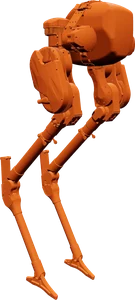
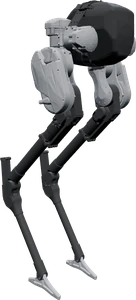
fix(Video): InEKF 换上 gallery 新的 Cassie 图，示意火柴人改成 Digit 下半身同款的 Cassie 鸟腿
- assets/img/robots/cassie.webp 换成 Robot_Description_Gallery 2026-10-09 的新渲染（UMich BipedLab 展示模型，灰色），
  按透明区域裁到机身、高 300 px；身高按新测量改为 1.2732 m。深灰机身在深色背景里发暗，图后垫一层浅灰光晕（同 LCP 第 10 幕）
- 第 2、3、4、6、10 幕的「方块 + 两段线」火柴人换成 cassieLegs()：骨盆块里仍画 IMU 坐标轴，腿照真实世界人形行走那篇
  digitFigure() 的下半身画（大腿 0.36、小腿 0.42、跗骨偏移 (−0.11, −0.2)、髋高 0.86，膝盖朝前），Digit 的腿就是 Cassie 的腿；
  第 4 幕整机当刚体转，跗骨和脚板跟着骨盆转；第 6 幕摆动脚抬高，不再压「估计的脚」标签；第 10 幕步长 120 → 84 px，后腿不再拉成弓步
- 动画说明改写示意范围与图片出处；新增 test_inekf_legs_are_drawn_like_the_digit_lower_body
- RELEASE_PLAN：019 记下这次改动，只出了第 1–4、6、10、12 幕的片段，全片待重渲与验收后发布

Claude-Session: https://claude.ai/code/session_01PLYEa36V2gsL86FEXwhLUW

diff --git a/assets/js/demos/inekf.js b/assets/js/demos/inekf.js
@@ -59,7 +59,7 @@
   /* 第 5–9 节与表 1 照抄；图 3、4、6、8、9 没有标数，读图的值单独标「读图」。官方 C++ 库（RossHartley/invariant-ekf）的数单独标出。
      十二幕动画、三个演示、配音旁白与笔记「🚶 具体实例」共用这一份。 */
   var G = 9.81; // 代码 InEKF.cpp：g_ = (0, 0, −9.81)
-  var CASSIE = { dof: 20, actuators: 10, springs: 4, encoders: 14, imuHz: 800, encHz: 2000, height: 1.2768 }; // 第 9 节；身高取自 Robot_Description_Gallery 的 URDF 测量
+  var CASSIE = { dof: 20, actuators: 10, springs: 4, encoders: 14, imuHz: 800, encHz: 2000, height: 1.2732 }; // 第 9 节；身高取自 Robot_Description_Gallery 的 URDF 测量（UMich BipedLab 展示模型）
   var TABLE1 = {
     // 表 1：离散噪声标准差与初始标准差（扩展版的零偏单位是 m/s³、rad/s²；会议版写成 m/s²、rad/s）
     noise: [['线加速度', '0.04 m/s²'], ['角速度', '0.002 rad/s'], ['加速度计零偏', '0.001 m/s³'], ['陀螺零偏', '0.001 rad/s²'], ['接触点线速度', '0.05 m/s'], ['关节编码器', '1.0°']],
@@ -769,44 +769,85 @@
     if (h >= 0) { node.setAttribute('y', (node.yBase - h).toFixed(1)); node.setAttribute('height', h.toFixed(1)); }
     else { node.setAttribute('y', node.yBase.toFixed(1)); node.setAttribute('height', (-h).toFixed(1)); }
   }
-  /* Cassie 的渲染图（Robot_Description_Gallery 按开源 URDF 渲染，透明底），高 h 时宽 0.45h；
+  /* Cassie 的渲染图（Robot_Description_Gallery 按 UMich BipedLab 的开源 URDF 渲染，透明底），高 h 时宽 0.45h；
+     机身是深灰，背后垫一层浅灰光晕（同 LCP 第 10 幕），深色主题下也看得清。
      mark(nx, ny) 把图上的归一化坐标换成画布坐标，用来标 IMU、弹簧、脚 */
-  var CASSIE_IMG = { file: 'cassie.webp', aspect: 135 / 300, imu: [0.75, 0.11], hip: [0.38, 0.25], spring: [0.11, 0.63], footA: [0.31, 0.97], footB: [0.6, 0.9] };
+  var CASSIE_IMG = { file: 'cassie.webp', aspect: 136 / 300, imu: [0.75, 0.11], hip: [0.38, 0.25], spring: [0.11, 0.63], footA: [0.31, 0.97], footB: [0.6, 0.9] };
+  var haloSeq = 0;
   function cassie(parent, x, yBottom, h) {
     var w = h * CASSIE_IMG.aspect, g = group(parent);
+    var root = parent.ownerSVGElement || parent, defs = root.querySelector('defs');
+    if (!defs) { defs = svgEl('defs', {}); root.insertBefore(defs, root.firstChild); }
+    var id = 'inekf-x-halo-' + (++haloSeq), halo = svgEl('radialGradient', { id: id });
+    halo.appendChild(svgEl('stop', { offset: '0', 'stop-color': '#a3acb9', 'stop-opacity': '0.5' }));
+    halo.appendChild(svgEl('stop', { offset: '1', 'stop-color': '#a3acb9', 'stop-opacity': '0' }));
+    defs.appendChild(halo);
+    g.appendChild(svgEl('ellipse', { cx: (x + w / 2).toFixed(1), cy: (yBottom - h * 0.5).toFixed(1), rx: (w * 0.72).toFixed(1), ry: (h * 0.58).toFixed(1), fill: 'url(#' + id + ')' }));
     var img = svgEl('image', { href: ROBOT_IMG_BASE + CASSIE_IMG.file, x: x.toFixed(1), y: (yBottom - h).toFixed(1), width: w.toFixed(1), height: h.toFixed(1), preserveAspectRatio: 'xMidYMax meet' });
     g.appendChild(img);
     return { g: g, w: w, h: h, mark: function (nn) { return [x + nn[0] * w, yBottom - h + nn[1] * h]; } };
   }
-  /* 示意用的「身体 + 两条腿」：身体是一个带坐标轴的方块（IMU 在里面），腿是两段线，脚是圆点。
-     put(x, y, ang, feet)：身体中心 (x, y)、俯仰 ang（rad，图上逆时针为正）、feet = [[x, y, 着地?], …] */
-  function bodyLegs(parent, color, dashed) {
+  /* 侧视的 Cassie 示意（面朝 +x）：骨盆是一个带坐标轴的圆角块（IMU 在里面），腿照真实世界人形行走那篇的
+     Digit 下半身画 —— Digit 的腿就是 Cassie 的腿：大腿往前、小腿往后、跗骨再往前落到脚板上，髋上一个电机盘。
+     远侧那条腿淡一些。o.legH 是站直时髋到地面的像素数（连杆长度按它定，取 Digit 的比例），o.bodySc 缩放骨盆。
+     put(x, y, ang, feet, rigid)：骨盆中心 (x, y)、俯仰 ang（rad，图上逆时针为正）、feet = [[x, y, 着地?], …]（先近侧后远侧）；
+     rigid 为真时跗骨和脚板也跟着骨盆转（第 4 幕把整个机器人当刚体转一下） */
+  function cassieLegs(parent, color, dashed, opts) {
+    var o = opts || {}, H = o.legH || 62, bs = o.bodySc || 1;
+    var M = H / 0.86, L1 = 0.36 * M, L2 = 0.42 * M, TAR = [-0.11 * M, -0.2 * M], ws = Math.min(M / 100, 1.1);
     var g = group(parent);
-    var legs = [0, 1].map(function () {
-      var l1 = hline(g, 0, 0, 0, 0, color, 2.4), l2 = hline(g, 0, 0, 0, 0, color, 2.4), foot = dotAt(g, 0, 0, 4.2, color);
-      if (dashed) { l1.setAttribute('stroke-dasharray', '4 3'); l2.setAttribute('stroke-dasharray', '4 3'); }
-      return { l1: l1, l2: l2, foot: foot };
-    });
+    function bone(parentG, w) {
+      var ln = paint(svgEl('line', { 'stroke-width': (dashed ? Math.max(1.6, w * ws * 0.55) : w * ws).toFixed(2), 'stroke-linecap': 'round' }), null, color);
+      if (dashed) ln.setAttribute('stroke-dasharray', '4 3');
+      parentG.appendChild(ln);
+      return ln;
+    }
+    function leg(far) {
+      var lg = group(g);
+      if (far) lg.style.opacity = 0.45;
+      var L = { thigh: bone(lg, 6.5), shin: bone(lg, 5.5), tar: bone(lg, 4), foot: bone(lg, 3.6) };
+      L.motor = paint(svgEl('circle', { r: Math.min(0.075 * M, 9).toFixed(1), 'stroke-width': 1.4 }), C_SURFACE, color);
+      if (dashed) L.motor.setAttribute('stroke-dasharray', '3 2');
+      lg.appendChild(L.motor);
+      L.dot = dotAt(lg, 0, 0, clamp(0.045 * M, 2.4, 4), color);
+      return L;
+    }
+    var farLeg = leg(true);
     var body = svgEl('g', {});
     g.appendChild(body);
-    var box = paint(svgEl('rect', { x: -22, y: -13, width: 44, height: 26, rx: 5, 'stroke-width': 2 }), C_SURFACE, color);
+    var box = paint(svgEl('rect', { x: -22 * bs, y: -13 * bs, width: 44 * bs, height: 26 * bs, rx: 9 * bs, 'stroke-width': 2 }), C_SURFACE, color);
     if (dashed) box.setAttribute('stroke-dasharray', '4 3');
     body.appendChild(box);
-    var ax = hline(body, 0, 0, 16, 0, color, 1.6), ay = hline(body, 0, 0, 0, -16, color, 1.6);
+    hline(body, 0, 0, 16 * bs, 0, color, 1.6);
+    hline(body, 0, 0, 0, -16 * bs, color, 1.6);
     dotAt(body, 0, 0, 2.6, color);
+    var nearLeg = leg(false);
+    function rot(v, th) { return [v[0] * Math.cos(th) - v[1] * Math.sin(th), v[0] * Math.sin(th) + v[1] * Math.cos(th)]; }
+    function pose(L, hip, f, th) {
+      var tar = rot(TAR, th), ankle = [f[0] + tar[0], f[1] + tar[1]];
+      var dx = ankle[0] - hip[0], dy = ankle[1] - hip[1];
+      var d = clamp(Math.hypot(dx, dy), 0.2 * M, L1 + L2 - 0.01);
+      var base = Math.atan2(dy, dx), bend = Math.acos(clamp((L1 * L1 + d * d - L2 * L2) / (2 * L1 * d), -1, 1));
+      var a = base - bend; // 膝盖朝前
+      var knee = [hip[0] + L1 * Math.cos(a), hip[1] + L1 * Math.sin(a)];
+      var ank = [hip[0] + d * Math.cos(base), hip[1] + d * Math.sin(base)];
+      setLine(L.thigh, hip[0], hip[1], knee[0], knee[1]);
+      setLine(L.shin, knee[0], knee[1], ank[0], ank[1]);
+      setLine(L.tar, ank[0], ank[1], f[0], f[1]);
+      var heel = rot([-0.05 * M, 0], th), toe = rot([0.09 * M, 0], th);
+      setLine(L.foot, f[0] + heel[0], f[1] + heel[1], f[0] + toe[0], f[1] + toe[1]);
+      L.motor.setAttribute('cx', hip[0].toFixed(1)); L.motor.setAttribute('cy', hip[1].toFixed(1));
+      moveDot(L.dot, f);
+      L.dot.style.opacity = f[2] ? 1 : 0.35;
+    }
     return {
       g: g, box: box,
-      put: function (x, y, ang, feet) {
+      put: function (x, y, ang, feet, rigid) {
         body.setAttribute('transform', 'translate(' + x.toFixed(1) + ' ' + y.toFixed(1) + ') rotate(' + ((-ang * 180) / Math.PI).toFixed(2) + ')');
-        feet.forEach(function (f, k) {
-          var L = legs[k], hip = [x + (k ? 6 : -6), y + 12];
-          var mid = [(hip[0] + f[0]) / 2 + 9, (hip[1] + f[1]) / 2];
-          setLine(L.l1, hip[0], hip[1], mid[0], mid[1]);
-          setLine(L.l2, mid[0], mid[1], f[0], f[1]);
-          moveDot(L.foot, f);
-          L.foot.style.opacity = f[2] ? 1 : 0.35;
+        [nearLeg, farLeg].forEach(function (L, k) {
+          var off = rot([k ? -2 * bs : 2 * bs, 12 * bs], -ang), f = feet[k];
+          pose(L, [x + off[0], y + off[1]], f, rigid ? -ang : 0);
         });
-        ax.style.opacity = 1; ay.style.opacity = 1;
       }
     };
   }
@@ -969,8 +1010,8 @@
     right.appendChild(svgText(290, 62, '世界坐标（示意）', 'demo-x-mut', 10.5));
     var GY = 250;
     hline(right, 290, GY, 756, GY, C_BORDER, 1.4);
-    var trueBody = bodyLegs(right, C_TRUE, true);
-    var estBody = bodyLegs(right, C_EST, false);
+    var trueBody = cassieLegs(right, C_TRUE, true);
+    var estBody = cassieLegs(right, C_EST, false);
     var ell = paint(svgEl('ellipse', { cx: 0, cy: 0, rx: 10, ry: 6, fill: 'none', 'stroke-width': 1.4, 'stroke-dasharray': '3 3' }), null, C_EST);
     right.appendChild(ell);
     var pin = group(right);
@@ -1044,7 +1085,7 @@
     rectBox(left, 30, 44, 300, 290, C_BORDER, C_SURFACE2);
     var GY = 250, CX = 150;
     hline(left, 44, GY, 316, GY, C_BORDER, 1.4);
-    var trueB = bodyLegs(left, C_TRUE, true), estB = bodyLegs(left, C_Q, false);
+    var trueB = cassieLegs(left, C_TRUE, true), estB = cassieLegs(left, C_Q, false);
     var mkG = K.arrowMarker(s, 'inekf-x-arrow-g', C_WARN), mkR = K.arrowMarker(s, 'inekf-x-arrow-res', C_Q);
     var aBody = arrowPath(left, [[0, 0], [1, 1]], C_WARN, mkG, null, 2.2);
     var aG = arrowPath(left, [[0, 0], [1, 1]], C_MUTED, K.arrowMarker(s, 'inekf-x-arrow-gw', C_MUTED), '4 3', 2);
@@ -1092,9 +1133,9 @@
       setOpacity(left, seg(t, 0.2, 0.8));
       var th = t < 10.4 ? 0.1 : 0.1 + 0.4 * ease(seg(t, 10.4, 11.4));
       var by = GY - 74;
-      trueB.put(CX, by, 0, [[CX - 12, GY, true], [CX + 12, GY, true]]);
+      trueB.put(CX, by, 0, [[CX + 2, GY, true], [CX + 12, GY, true]]);
       var tilt = t < 0.8 ? 0 : th * ease(seg(t, 0.8, 1.6));
-      estB.put(CX, by, -tilt, [[CX - 12, GY, true], [CX + 12, GY, true]]);
+      estB.put(CX, by, -tilt, [[CX + 2, GY, true], [CX + 12, GY, true]]);
       angLab.setText('滤波器以为前倾了 **' + fmt(th, 1) + ' rad**（约 ' + fmt((th * 180) / Math.PI, 0) + '°）');
       /* 读数 ã 沿机身的「上」：在估计的朝向下画出来，再加上 g（向下），剩下水平的假加速度 */
       var L = 112, up = [Math.sin(tilt), -Math.cos(tilt)];
@@ -1180,7 +1221,8 @@
     var ORIG = [420, 236];
     dotAt(err, ORIG[0], ORIG[1], 3, C_MUTED);
     err.appendChild(svgText(ORIG[0], ORIG[1] + 18, '世界原点', 'demo-x-mut', 9.5, 'middle'));
-    var tB = bodyLegs(err, C_TRUE, true), eB = bodyLegs(err, C_EST, false);
+    var FIG4 = { legH: 31, bodySc: 0.75 };
+    var tB = cassieLegs(err, C_TRUE, true, FIG4), eB = cassieLegs(err, C_EST, false, FIG4);
     var swing = paint(svgEl('path', { fill: 'none', 'stroke-width': 1.4, 'stroke-dasharray': '3 3' }), null, C_EST);
     err.appendChild(swing);
     err.appendChild(paint(svgText(756, 256, '整体转 + 挪一下', null, 10, 'end'), C_EST));
@@ -1216,14 +1258,14 @@
       setOpacity(err, seg(t, 7.0, 7.6));
       /* 真值不动；估计值 = 真值绕世界原点转 ψ 再平移一点（ψ 来回摆） */
       var psi = 0.28 + 0.08 * Math.sin(now * 1.2);
-      var P0 = [520, 220];
-      tB.put(P0[0], P0[1], 0, [[P0[0] - 10, P0[1] + 32, true], [P0[0] + 14, P0[1] + 32, true]]);
+      var P0 = [520, 212], F1 = [P0[0] + 3, P0[1] + 40], F2 = [P0[0] + 11, P0[1] + 40];
+      tB.put(P0[0], P0[1], 0, [[F1[0], F1[1], true], [F2[0], F2[1], true]]);
       function rotAbout(q) {
         var dx = q[0] - ORIG[0], dy = q[1] - ORIG[1], c = Math.cos(-psi), sn = Math.sin(-psi);
         return [ORIG[0] + c * dx - sn * dy + 40, ORIG[1] + sn * dx + c * dy - 6];
       }
-      var b2 = rotAbout(P0), f1 = rotAbout([P0[0] - 10, P0[1] + 32]), f2 = rotAbout([P0[0] + 14, P0[1] + 32]);
-      eB.put(b2[0], b2[1], psi, [[f1[0], f1[1], true], [f2[0], f2[1], true]]);
+      var b2 = rotAbout(P0), f1 = rotAbout(F1), f2 = rotAbout(F2);
+      eB.put(b2[0], b2[1], psi, [[f1[0], f1[1], true], [f2[0], f2[1], true]], true);
       swing.setAttribute('d', 'M ' + P0[0] + ' ' + P0[1] + ' Q ' + ((P0[0] + b2[0]) / 2 + 10).toFixed(1) + ' ' + ((P0[1] + b2[1]) / 2 + 20).toFixed(1) + ' ' + b2[0].toFixed(1) + ' ' + b2[1].toFixed(1));
       setOpacity(dims, seg(t, 10.4, 11.0));
       segNodes.forEach(function (g, k) { setOpacity(g, seg(t, 10.6 + k * 0.4, 11.0 + k * 0.4)); });
@@ -1350,7 +1392,7 @@
     var O = [96, GY];
     hline(left, 44, GY, 376, GY, C_BORDER, 1.4);
     function W(p3, mag) { return [O[0] + p3[0] * SCL * (mag || 1), O[1] - p3[2] * SCL * (mag || 1)]; }
-    var bodyB = bodyLegs(left, C_EST, false);
+    var bodyB = cassieLegs(left, C_EST, false, { legH: UPD.p[2] * SCL - 12 * 1.3, bodySc: 1.3 });
     var footD = dotAt(left, 0, 0, 6, C_GOOD);
     var mkM = K.arrowMarker(s, 'inekf-x-arrow-meas', C_WARN), mkZ = K.arrowMarker(s, 'inekf-x-arrow-z', C_Q);
     var meas = arrowPath(left, [[0, 0], [1, 1]], C_WARN, mkM, null, 2.2);
@@ -1402,7 +1444,7 @@
       var pNow = [UPD.p[0] + k * UPD_EX.dp[0] * MAG, 0, UPD.p[2] + k * UPD_EX.dp[2] * MAG];
       var dNow = [UPD.d[0] + k * UPD_EX.dd[0] * MAG, 0, UPD.d[2] + k * UPD_EX.dd[2] * MAG];
       var bp = W(pNow), dp = W(dNow);
-      bodyB.put(bp[0], bp[1], 0, [[dp[0], dp[1], true], [bp[0] - 40, GY - 6, false]]);
+      bodyB.put(bp[0], bp[1], 0, [[dp[0], dp[1], true], [bp[0] - 56, GY - 38, false]]);
       moveDot(footD, dp);
       /* 测量：从身体出发的 R̄h（h 比估计长 2 cm，放大 10 倍） */
       var hEnd = [pNow[0] + (UPD.h[0] + (UPD.h[0] - (UPD.d[0] - UPD.p[0])) * (MAG - 1)), 0, pNow[2] + (UPD.h[2] + (UPD.h[2] - (UPD.d[2] - UPD.p[2])) * (MAG - 1))];
@@ -1688,7 +1730,7 @@
     rectBox(top, 30, 44, 500, 170, C_BORDER, C_SURFACE2);
     var GY = 196;
     hline(top, 44, GY, 516, GY, C_BORDER, 1.4);
-    var body = bodyLegs(top, C_EST, false);
+    var body = cassieLegs(top, C_EST, false, { legH: 70 });
     var prints = group(top);
     var tag = svgRich(0, 0, '', { size: 10.5, anchor: 'middle', w: 120, cls: 'demo-x-good' });
     top.appendChild(tag);
@@ -1731,7 +1773,7 @@
     function draw(t, clock) {
       var now = nowOf(t, clock);
       setOpacity(top, seg(t, 0.2, 0.8));
-      var W = walkPose(now, 60, GY, 120, 1.6), span = 520 - 60;
+      var W = walkPose(now, 60, GY, 84, 1.6), span = 520 - 60;
       var wrapX = function (x) { return 60 + ((x - 60) % span + span) % span; };
       var bx = wrapX(W.x), shift = bx - W.x;
       body.put(bx, W.y, W.ang, W.feet.map(function (f) { return [f[0] + shift, f[1], f[2]]; }));
@@ -2087,7 +2129,7 @@
       notes: [
         '取数依据：第 1、2、11、12 幕的数字照抄论文第 6、9 节与表 1（IJRR 扩展版 arXiv 1904.09251 v2；会议版 1805.10410 的实验数字相同）；第 5 幕的 $A$、第 6 幕的 $H$、第 7 幕的可观性矩阵照抄第 5 节式 (12)–(14)、(20) 与第 5.4 节；第 9 幕的 $A$ 照抄式 (28)。' +
           '第 3、5 幕的站立例子（0.1 rad、0.5 rad）、第 6 幕的 2 cm 校正、第 10 幕的新触地点、第 8 幕的 1.39 m / 0.48 m 是在论文的式子上现算的（具体实例第 2–4、6、8、9 步）；第 7 幕「QEKF 秩为 9」是我们用抖动的估计值算的 12 维小例子，不是论文的数。',
-        '**读图与示意**：图 3、4、6、8、9 没有标数，第 5、11、12 幕的曲线和轨迹是按图读的近似值；第 1、2、6、10 幕的身体—腿示意、第 9 幕的零偏曲线、第 12 幕的人行道与点云是示意。Cassie 的图取自 Robot_Description_Gallery（按开源 URDF 渲染）。'
+        '**读图与示意**：图 3、4、6、8、9 没有标数，第 5、11、12 幕的曲线和轨迹是按图读的近似值；第 2、3、4、6、10 幕的 Cassie 腿示意（照真实世界人形行走那篇 Digit 下半身的画法）、第 9 幕的零偏曲线、第 12 幕的人行道与点云是示意。Cassie 的图取自 Robot_Description_Gallery（按 UMich BipedLab 的开源 URDF 渲染）。'
       ],
       scenes: INEKF_SCENES
     });

diff --git a/tests/test_paper_demos.py b/tests/test_paper_demos.py
@@ -1335,6 +1335,22 @@ def test_beyondmimic_explainer_demos_and_worked_example_share_the_paper_numbers(
         assert stale not in note, f"旧版笔记的说法：{stale}"
 
 
+def test_inekf_legs_are_drawn_like_the_digit_lower_body():
+    """InEKF 讲解动画里的机器人示意画 Cassie 的鸟腿，比例照抄真实世界人形行走那篇的 Digit 下半身（Digit 的腿就是 Cassie 的腿）。
+
+    大腿 0.36、小腿 0.42、跗骨偏移 (−0.11, −0.2)、髋高 0.86（单位 m，按像素比例缩放）；旧版「方块 + 两段线」的火柴人不再出现。
+    """
+    digit = (ROOT / "assets" / "js" / "demos" / "realhumanoid.js").read_text(encoding="utf-8")
+    inekf = (ROOT / "assets" / "js" / "demos" / "inekf.js").read_text(encoding="utf-8")
+    for needle in ("L1 = 0.36 * M", "L2 = 0.42 * M", "TAR = [-0.11 * M, -0.2 * M]", "HIP_H = 0.86 * M"):
+        assert needle in digit, needle
+    assert "var M = H / 0.86, L1 = 0.36 * M, L2 = 0.42 * M, TAR = [-0.11 * M, -0.2 * M]" in inekf
+    assert "var a = base - bend; // 膝盖朝前" in inekf
+    assert "bodyLegs" not in inekf
+    assert inekf.count("cassieLegs(") == 9  # 定义 1 处；第 2、3、4 幕各两个（真值 + 估计），第 6、10 幕各一个
+    assert "UMich BipedLab" in inekf
+
+
 def test_beyondmimic_stick_figures_bend_the_right_way():
     """侧面看的火柴人不反关节：膝的弯曲 = 大腿角 − 小腿角 ≥ 0，肘的弯曲 = 小臂角 − 大臂角 ≥ 0（角度从竖直向下量、朝 +x 为正）。
 
@@ -2519,7 +2535,7 @@ def test_inekf_explainer_demos_and_worked_example_share_the_paper_numbers():
 
     for line in (
         "var G = 9.81;",
-        "var CASSIE = { dof: 20, actuators: 10, springs: 4, encoders: 14, imuHz: 800, encHz: 2000, height: 1.2768 };",
+        "var CASSIE = { dof: 20, actuators: 10, springs: 4, encoders: 14, imuHz: 800, encHz: 2000, height: 1.2732 };",
         "var CONV = { runs: 100, eulerDeg: 30, velMax: 1.0, simSpeed: 0.3, realSpeed: 0.3, simWin: 1, realWin: 2 };",
         "var BANANA = { speed: 1, secs: [0, 2, 4, 6, 8], posSigma: 0.1, yawDeg: 10, particles: 10000, fullYawDeg: 360 };",
         "var MOCAP = { cams: 18, secs: 60, pathM: 15, driftPct: 5 };",

diff --git a/scripts/paper_video/RELEASE_PLAN.md b/scripts/paper_video/RELEASE_PLAN.md
@@ -41,7 +41,7 @@
 - [x] 016 [LCP](../../papers/01_Foundational_RL/LCP_Sim-to-Real_Action_Smoothing/LCP_Sim-to-Real_Action_Smoothing.md)（2024）🎬 `lcp` — DR→LCP；2026-10-05 重做成十幕，片头接 015 的片尾预告（OP3 用输出端滤波，LCP 改成梯度惩罚）；同日按「公式太多」的反馈改成以动图为主，重配为 9 分 56 秒
 - [x] 017 [ASAP](../../papers/03_High_Impact_Selection/ASAP_Aligning_Simulation_and_Real-World_Physics_for_Agile_Humanoid_Skills/ASAP_Aligning_Simulation_and_Real-World_Physics_for_Agile_Humanoid_Skills.md)（2025）🎬 `asap` — LCP→ASAP、ASAP⇢BeyondMimic；BeyondMimic 笔记拿它当「单动作专用，每条动作要单独调 DR / 奖励」的对照；2026-10-06 新做十二幕，片头接 016 的片尾预告（LCP 改策略，ASAP 改仿真），片尾预告 018 BeyondMimic；截至 2026-10-08 已发布（用户确认）
 - [x] 018 [BeyondMimic](../../papers/01_Foundational_RL/BeyondMimic/BeyondMimic.md)（2025）🎬 `beyondmimic` — DP→BeyondMimic；笔记把 CALM / PULSE 和 Diffusion Policy 列为它要补足的两类前作；2026-10-06 按 arXiv v4 重做成十二幕，片头接 017 的片尾预告（ASAP 一段动作一套配方 → BeyondMimic 一份配方），2026-10-07 片尾画面与配音的源文件已改为预告 019 InEKF「机器人怎样知道自己当前的姿态和速度」（借第 12 幕「还依赖状态估计」接过去，不说 BeyondMimic 用了 InEKF），同日参考 ASAP 改正火柴人（前踢反关节、侧手翻改成腾空）与几条曲线；2026-10-08 全片重渲为 9 分 47 秒、换进笔记；同日按看片反馈改 VAE 读法（逐字母念）、第 5 幕改成皮带减速器（电机小轮转 5 圈、关节大轮转 1 圈、同向）、第 11 幕说明灰虚线（只加路点代价时穿过障碍）、四处文字出框、SDF / CppAD 各加一句解释，随后以四段并行完成全片重渲（本次交付原片 10 分 9 秒，1080×1920、30 fps、18,282 帧），排版、完整帧数与全片解码检查均通过；截至 2026-10-08 已发布（用户确认）
-- [ ] 019 [Contact-Aided InEKF](../../papers/09_State_Estimation/Contact-Aided_Invariant_EKF_for_Legged_Robots/Contact-Aided_Invariant_EKF_for_Legged_Robots.md)（2018 / 2019）🎬 `inekf` — day6「状态估计先于动作」：融合 IMU、接触与足端运动学，估计身体姿态和速度。〔取舍〕先看 BeyondMimic 的跟踪能力，再补状态估计背景；这是教学关联，不表示 BeyondMimic 采用该论文的 InEKF。day6 对应 [RSS 2018 会议版](https://arxiv.org/abs/1805.10410)；上游清单收录的是 [IJRR 2020 扩展版](https://arxiv.org/abs/1904.09251)（标题去掉了 Legged，2019 年挂 arXiv），2026-10-08 以扩展版为准重写笔记、单列两版关系，新做十二幕动画、三个交互演示与配音视频（约 10 分钟），片头接 018 的片尾预告，片尾只预告 020 Berkeley Humanoid；视频已完成，尚未发布。发布标题用扩展版英文标题（与 `_data/papers.json` 一致）
+- [ ] 019 [Contact-Aided InEKF](../../papers/09_State_Estimation/Contact-Aided_Invariant_EKF_for_Legged_Robots/Contact-Aided_Invariant_EKF_for_Legged_Robots.md)（2018 / 2019）🎬 `inekf` — day6「状态估计先于动作」：融合 IMU、接触与足端运动学，估计身体姿态和速度。〔取舍〕先看 BeyondMimic 的跟踪能力，再补状态估计背景；这是教学关联，不表示 BeyondMimic 采用该论文的 InEKF。day6 对应 [RSS 2018 会议版](https://arxiv.org/abs/1805.10410)；上游清单收录的是 [IJRR 2020 扩展版](https://arxiv.org/abs/1904.09251)（标题去掉了 Legged，2019 年挂 arXiv），2026-10-08 以扩展版为准重写笔记、单列两版关系，新做十二幕动画、三个交互演示与配音视频（约 10 分钟），片头接 018 的片尾预告，片尾只预告 020 Berkeley Humanoid；同日按看片反馈换上 Robot_Description_Gallery 新的 Cassie 图（UMich BipedLab 展示模型，灰色），第 2、3、4、6、10 幕的火柴人改成 Cassie 鸟腿（照 014 真实世界人形行走 Digit 下半身的画法，Digit 的腿就是 Cassie 的腿），只出了第 1–4、6、10、12 幕的改动片段，**全片待重渲与验收后发布**。发布标题用扩展版英文标题（与 `_data/papers.json` 一致）
 - [ ] 020 [Berkeley Humanoid](https://arxiv.org/abs/2407.21781)（2024）🆕 笔记待建（12_Hardware_Design）— day6「仿真与硬件」：硬件、执行器台架辨识与仿真训练共同设计。LCP 在该平台上验证，属于部署平台关联。〔取舍〕承接状态估计，补上控制命令落到硬件这一环
 - [ ] 021 [ToddlerBot](https://arxiv.org/abs/2502.00893)（2025）🆕 笔记待建（12_Hardware_Design）— day6「仿真与硬件」：把校准、数字孪生、遥操作采集与部署工具连成完整平台。〔取舍〕与 Berkeley Humanoid 连着讲，由硬件与仿真对齐走向整套工具链；片尾从遥操作采集引出 022 HumanML3D / 023 GMR 的动作数据与重定向
 - [ ] 022 [AMASS / HumanML3D](../../papers/14_Human_Motion/HumanML3D/HumanML3D.md)（2019 / 2022）🎬 `humanml3d` 可选 — AMASS / HumanML3D→GMR；视频讲的是 HumanML3D
